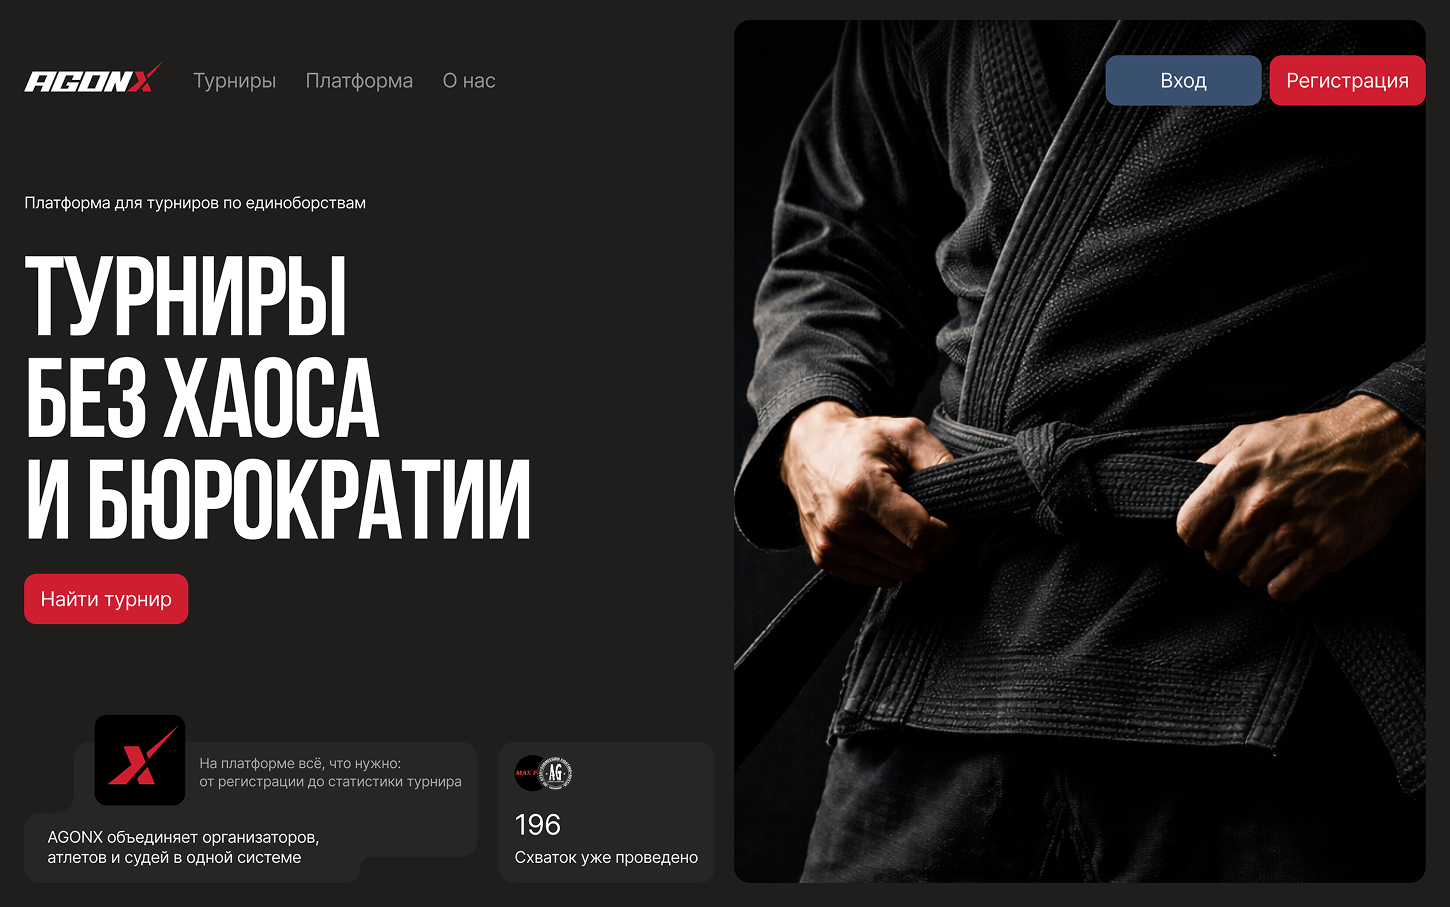
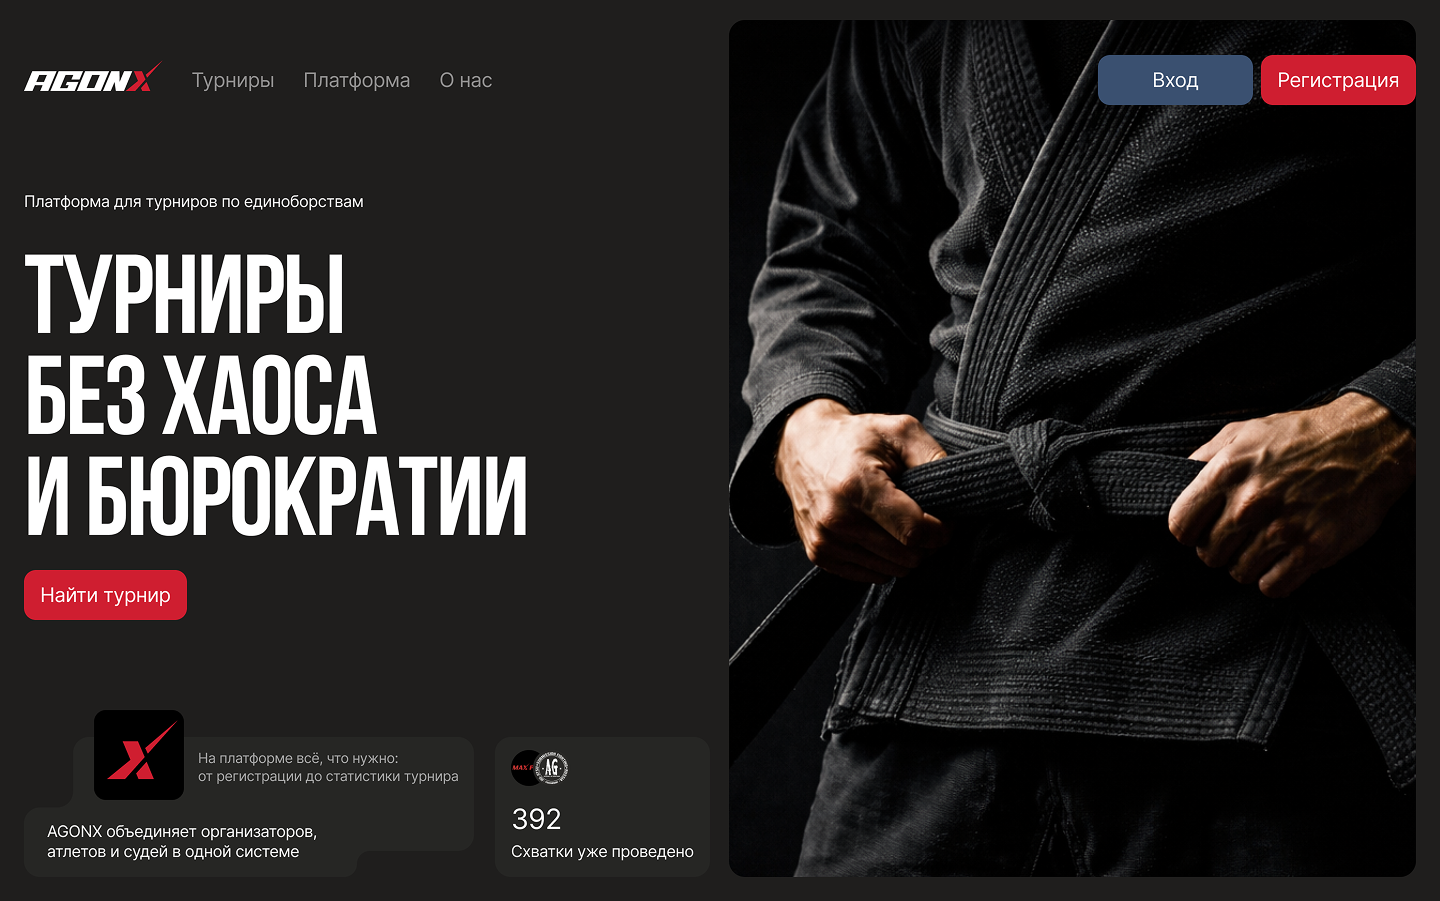
update agonx images and result text

diff --git a/src/lib/images.ts b/src/lib/images.ts
@@ -3,7 +3,7 @@ const BASE = "https://cdn.sanity.io/images/jp3kooxh/production";
 export const images = {
   home: {
     criateam: `${BASE}/4887b8c658d14e1cf49c282e323c850a346dec91-4000x2250.jpg?auto=format`,
-    agonx:    `${BASE}/92ede0e5eb6818f5ca44bb662e51cbb372f00c9a-2880x1802.png?auto=format`,
+    agonx:    `${BASE}/3e791c680ee3f81c340473dc7fc8698283bf1272-1440x901.png?auto=format`,
   },
   criateam: {
     one:   `${BASE}/e3a6e3fcf6080bb40adf49f66b4d65d5a52042e9-1450x797.png?auto=format`,
@@ -18,7 +18,7 @@ export const images = {
     three: `${BASE}/9162d7d921eb5ba31d5c63e3d12850e504607c31-1450x630.png?auto=format`,
     four:  `${BASE}/bdc2c146fb43cd4edc9308ad7b2e94c71c6de29a-1440x1086.png?auto=format`,
     five:  `${BASE}/656f0119cf805ee89cc3c64ae0ea6a8bd6dc1721-1450x622.png?auto=format`,
-    six:   `${BASE}/1e80ec0748b1b6ff492cdc8b62766baa4f359a66-1450x907.png?auto=format`,
+    six:   `${BASE}/3e791c680ee3f81c340473dc7fc8698283bf1272-1440x901.png?auto=format`,
   },
   sandbox: {
     one:   `${BASE}/d5029fa4dedcc32573fb13ba733eec27da48bf3f-1920x1156.png?auto=format`,

diff --git a/src/app/agonx/page.tsx b/src/app/agonx/page.tsx
@@ -40,7 +40,7 @@ const cards = [
   {
     number: "06",
     title: "Результат",
-    text: "Платформа сэкономила минимум два часа времени атлетам и&nbsp;организаторам уже на&nbsp;первом турнире. Известна дата следующего турнира, скоро будем полноценно выходить на&nbsp;рынок.",
+    text: "Платформа уже экономит время организаторам и&nbsp;атлетам. Скоро будет полноценный выход на&nbsp;рынок.",
     photo: images.agonx.six,
   },
 ];